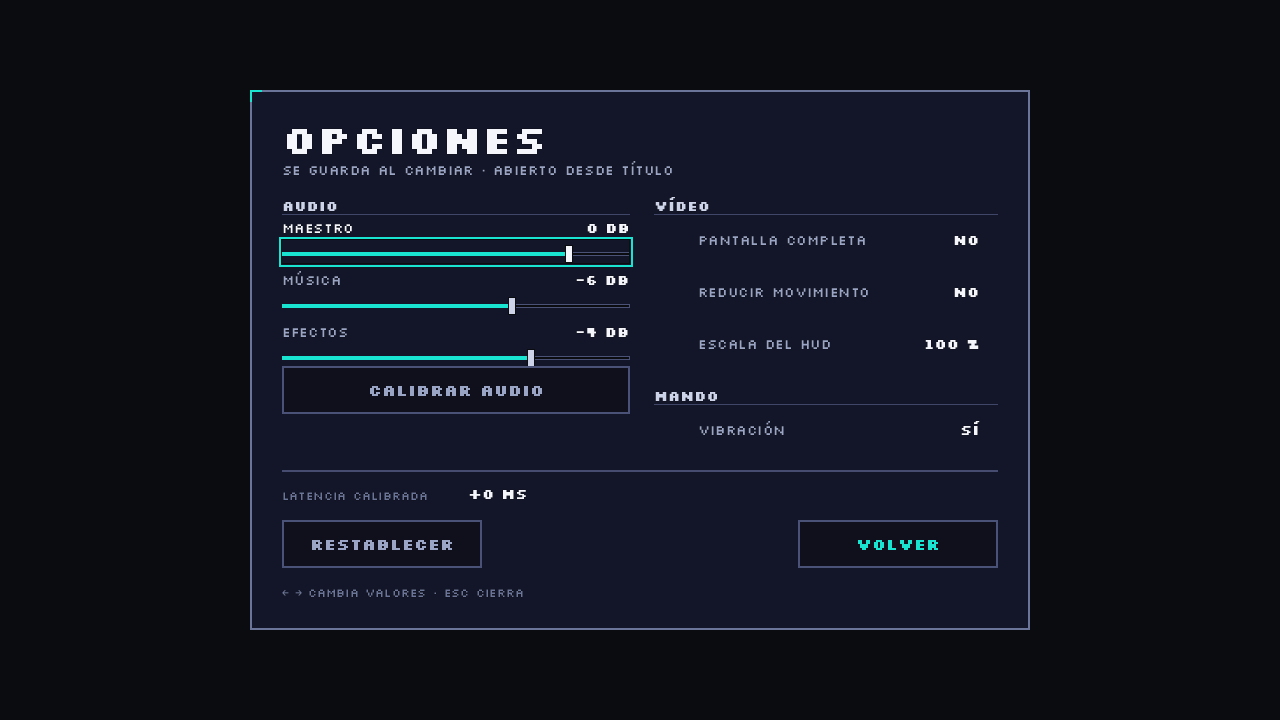
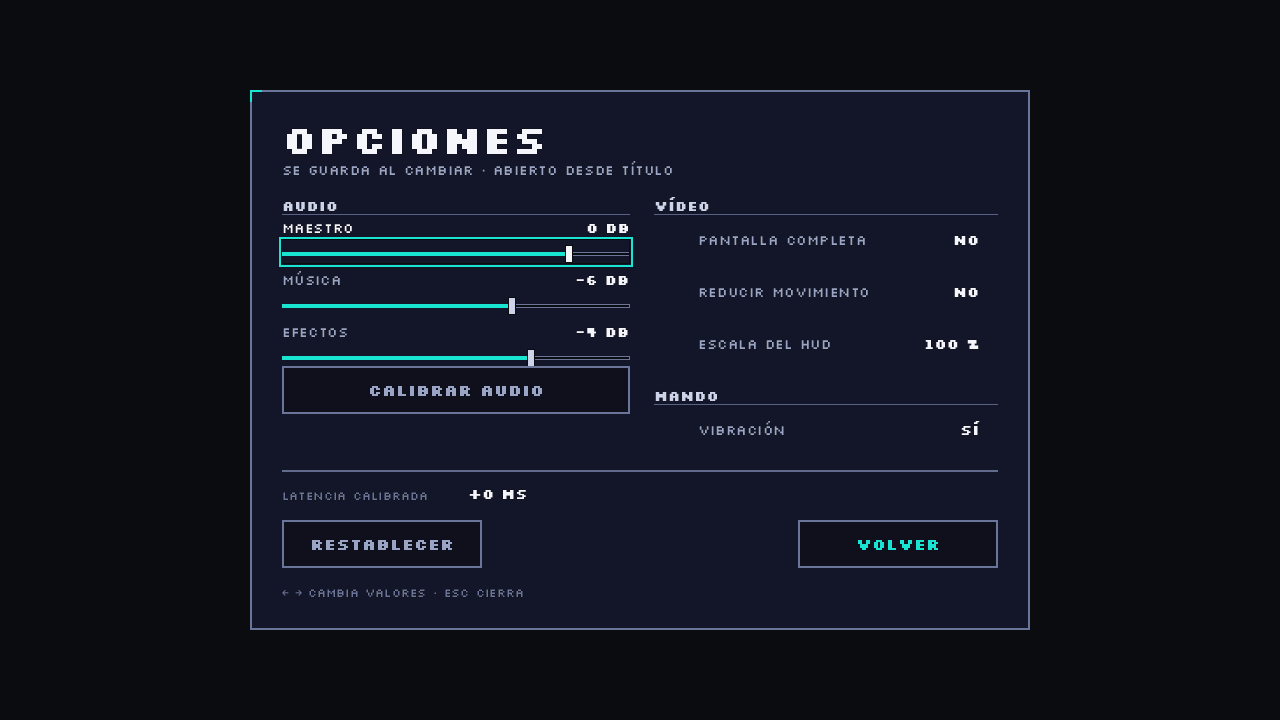
a11y(menu): metal_1 borders, ladder contrast and focus on frame one

diff --git a/docs/SCREENS.md b/docs/SCREENS.md
@@ -32,13 +32,15 @@ because the tree is paused behind them.
 |---|---|---|
 | Focus = 2 px `funk_cyan` ring + 1 px `space_void` gap (10.9:1 on `space_deep`) | `_focus_ring()` in each screen; menu rows keep the §12.1 caret + underline on top of it | `test_*_carry_the_measured_ring`, `test_focused_row_draws_the_measured_ring` |
 | No text below 12 px; captions 14 px; menu rows 20–28 px | `FONT_SMALL` / `FONT_LABEL` / per-row sizes | `test_no_text_below_the_type_floor` (all five suites) |
-| Panels and toggles use `metal_1` borders, never `metal_0` (2.34:1 fails 3:1) | `_panel()` per screen | `test_panel_border_uses_metal_1` |
+| Panels, action buttons and slider tracks use `metal_1` borders, never `metal_0` (2.34:1 fails 3:1) | `_panel()` / `_style_action()` / `_bar_box()` per screen | `test_panel_border_uses_metal_1`, `test_buttons_carry_the_measured_ring` |
 | Title hierarchy from presentation, not omission: one 28 px primary, two 20 px secondary, two dimmed 16 px tertiary rows | `MENU_SIZES` / `MENU_INKS` | `test_type_tiers_descend_from_primary_to_tertiary` |
 | Options shows ≤ 5 rows per column (4 + 4) plus a 2-button footer, one linear focus order | two fixed columns + footer row | `test_no_column_shows_more_than_five_rows` |
 | End: four primary stats first, ENTREGADAS and SEMILLA inline as a footnote; rank 96 px | `LEDGER_SLOTS` | `test_four_primary_stats_are_bigger_than_the_secondary_pair`, `test_secondary_stats_sit_inline_with_their_caption` |
 
-Focus ring, verified at 1:1 on the title's first row: `funk_cyan` 2 px, then one
-`space_void` pixel, then the row fill.
+Focus ring, verified at 1:1 by sampling the captures: `funk_cyan` 2 px (y = 489–490 on the end
+screen's REPETIR button), then exactly one `space_void` pixel (y = 491), then the control's own
+border. Structural dividers and the rank ladder's inactive letters use `metal_1` / dimmed
+`metal_2` so no line or letter falls under the contrast floor.
 
 ## Input behaviour
 
